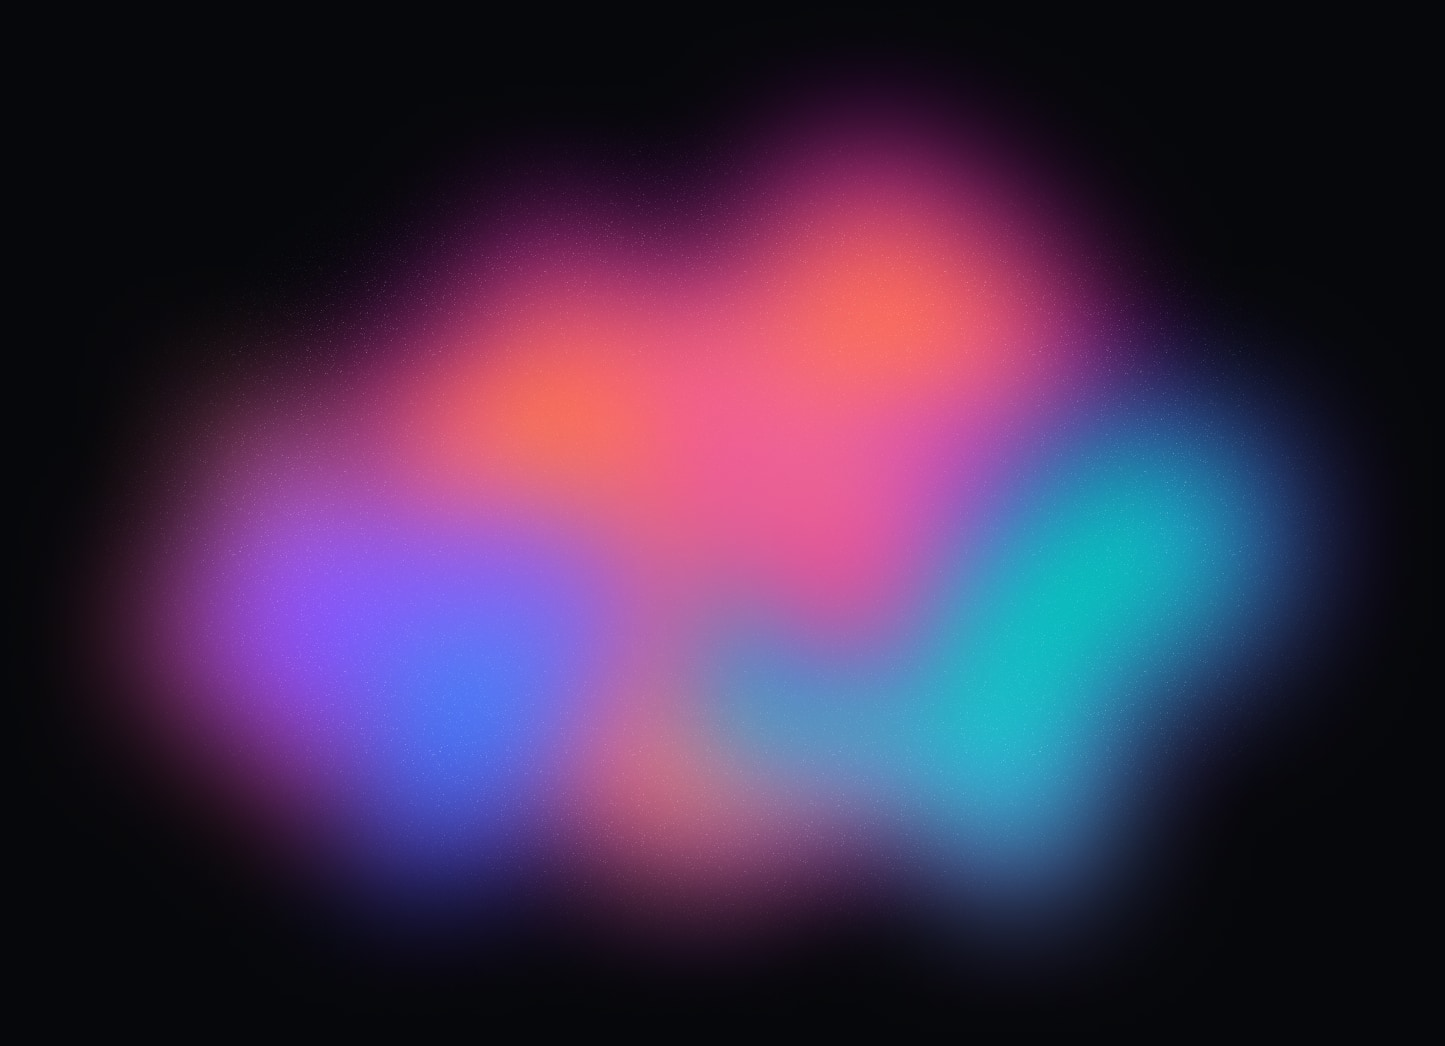
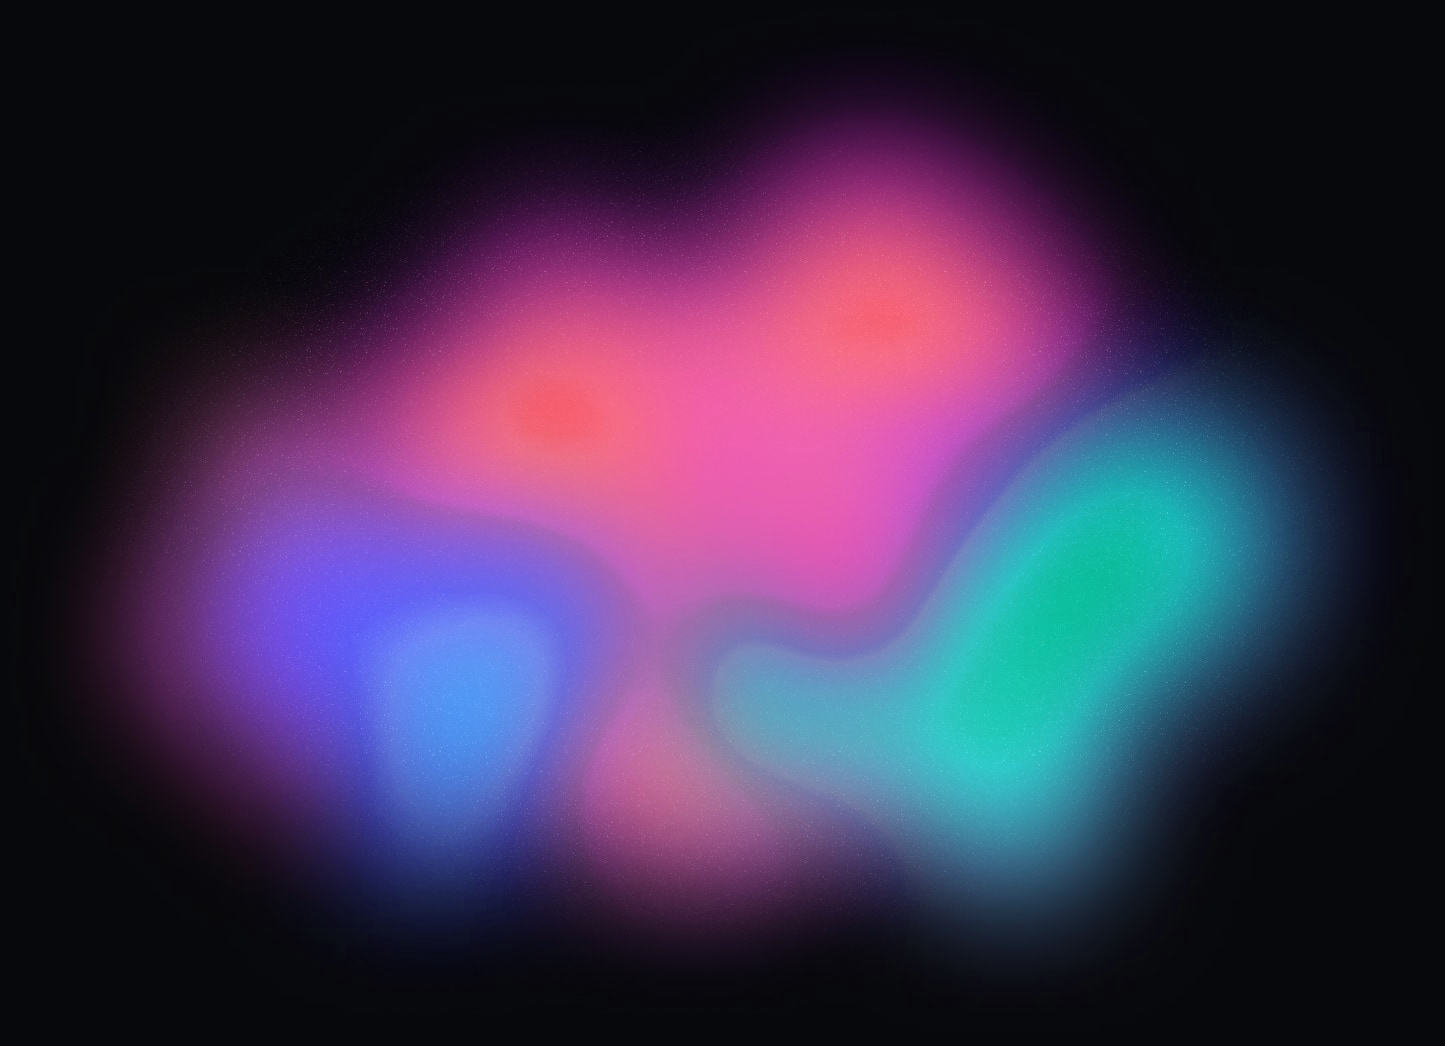
test

Changed region(s): [[0.2803, 0.1836, 0.7163, 0.5507], [0.6228, 0.4283, 0.872, 0.7954], [0.1557, 0.4895, 0.4048, 0.7648]]

diff --git a/pages/index.js b/pages/index.js
@@ -16,11 +16,11 @@ export default function Home() {
       <header className="min-w-full text py-14 px-4 md:px-0">
         <div className="flex items-center container mx-auto max-w-5xl justify-between h-full">
           {/* Logo */}
-          <Link href="#">
+          
             <a className="font-coiny text-xl md:text-3xl font-bold">
               Lil' Apple WRLD
             </a>
-          </Link>
+          
 
           {/* Opensea Twitter Discord Links */}
           <nav aria-label="Contact Menu">
@@ -106,8 +106,8 @@ export default function Home() {
           </Link>
 
           <div className="flex flex-col md:flex-row md:space-x-16 space-y-10 items-center mt-20 w-full">
-            {/* BoredApe Image */}
-            <img
+            
+          <img
               src="/images/330.png"
               className="w-64 h-64 rounded-full object-cover"
             />
@@ -118,13 +118,70 @@ export default function Home() {
               </h2>
 
               <p className='mt-6 text-2xl'>
-              (Most) other projects are promising <span className='text-amber-200'>"utility"</span> and <span className='text-amber-200'>"exclusive memberships"</span>, talking about infinite <span className='text-amber-200'>scalability" </span> and hinting at unthinkable long term profit; all repeating the same exact nonsense. 
+              (Most) other projects are promising <span className='text-amber-200'>"utility"</span>, <span className='text-amber-200'>"exclusive memberships"</span>, and hinting at unthinkable long term profit; all repeating the same exact nonsense. 
     We believe that this can be done differently.
               </p>
             </div>
           </div>
         </div>
       </div>
+      <img
+              src="/images/logo.png"
+              className="h-full w-full container max-w-lg mx-auto flex flex-col items-center pt-4 padding"
+            />
+
+
+
+
+
+
+
+
+
+
+
+
+
+
+
+
+
+
+
+
+
+
+
+
+{/* questions*/}
+<div class="py-24 max-w-screen-sm mx-auto font-coiny">
+  <div class="text-center mb-16">
+      <h3 class="text-3xl sm:text-4xl leading-normal font-extrabold tracking-tight text-gray-900">
+        Frequently Asked Questions
+      </h3>
+  </div>
+  
+  <div class="px-10 sm:px-16">
+  
+  <div class="ml-5">
+    <div class="flex items-start my-8">
+      <div class="text-md">
+        <h1 class="text-gray-900 font-semibold mb-2 text-3xl">What might be your first question?</h1>
+        <p class="text-neutral-50 text-2xl">Lorem ipsum, dolor sit amet consectetur adipisicing elit. Maiores impedit perferendis suscipit eaque, iste dolor cupiditate blanditiis ratione.</p>
+      </div> 
+    </div>    
+  </div>
+  
+    
+  </div>
+  
+</div>
+{/* questions*/}
+<img
+              src="/images/team.png"
+            />
+            
+
     </div>
   )
 }

diff --git a/styles/globals.css b/styles/globals.css
@@ -8,9 +8,9 @@
   --font-family: 'Open Sans', sans-serif;
   --clr-light: #f0e9e9;
   --clr-purple: #9b5de5;
-  --clr-pink: #f15bb5;
+  --clr-pink: #5bc7f1;
   --clr-yellow: #fee440;
-  --clr-blue: #00bbf9;
+  --clr-blue: #bb00f9;
   --clr-green: #00f5d4;
   --clr-selection-bg: #cb3d92;
   --clr-selection-text: #f4f0f0;
@@ -76,4 +76,46 @@ html {
 
 .text {
   color: white;
+}
+
+.textf {
+  font-family: Helvetica, sans-serif;
+}
+
+.padding {
+  padding-top: 5rem;
+}
+
+.text-oscuro {color:#445065;}
+.title {
+  color: #7A7572;
+}
+
+.title::after, .title::before {
+  content: '';
+  position: absolute;
+  right: 1.25em;
+  top: 1.25em;
+  width: 2px;
+  height: 0.75em;
+  background-color: #7A7572;
+  transition: all 0.2s;
+}
+
+.title::after {
+  transform: rotate(90deg);
+}
+
+.content {
+  max-height: 0;
+}
+
+.toggle:checked + .title, .toggle:checked + .title + .content {
+  box-shadow: 3px 3px 6px #ddd, -3px 3px 6px #ddd;
+}
+.toggle:checked + .title + .content {
+  max-height: 500px;
+}
+.toggle:checked + .title::before {
+  transform: rotate(90deg) !important;
 }

diff --git a/pages/mint.js b/pages/mint.js
@@ -225,7 +225,7 @@ export default function Mint() {
                 </p>
 
                 <div className="border-t border-b py-4 mt-16 w-full">
-                  <div className="w-full text-xl font-coiny flex items-center justify-between text-brand-yellow">
+                  <div className="w-full text-base font-coiny flex items-center justify-between text-brand-yellow">
                     <p>Total</p>
 
                     <div className="flex items-center space-x-3">
